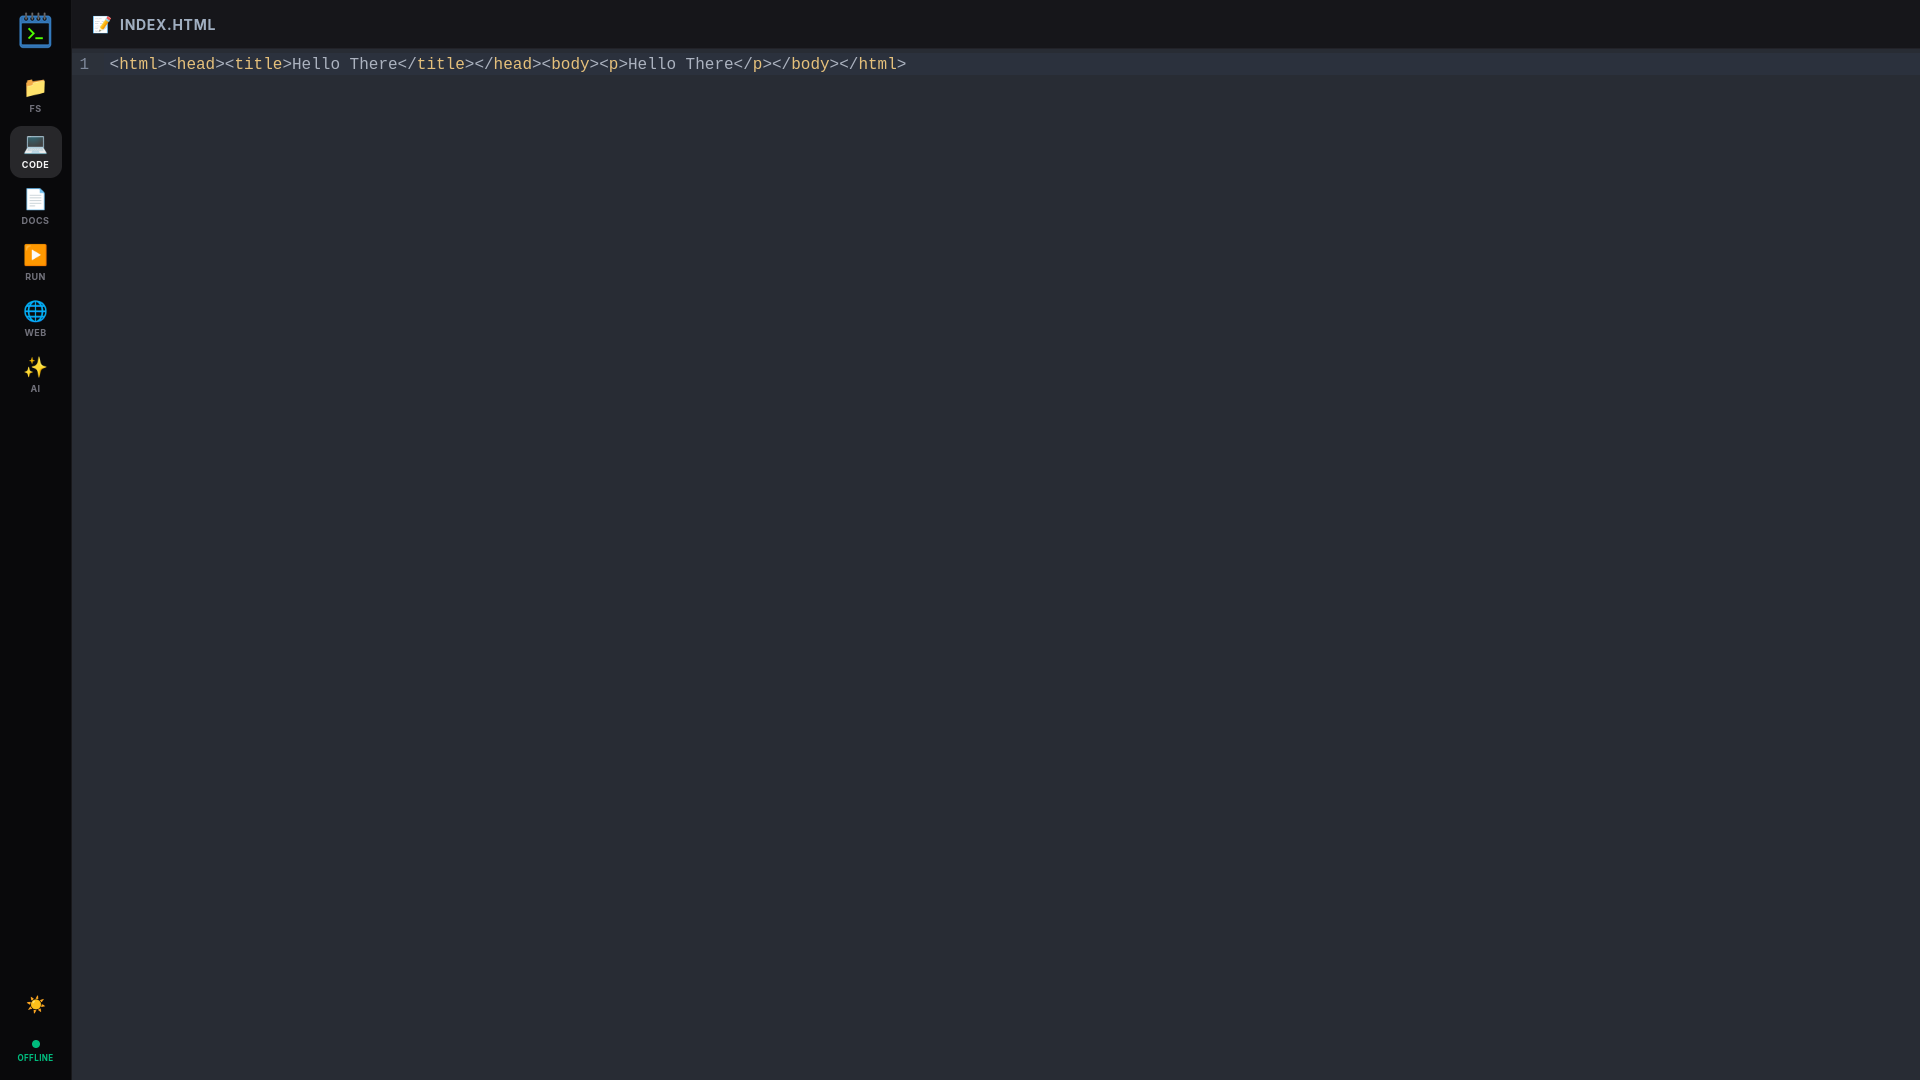
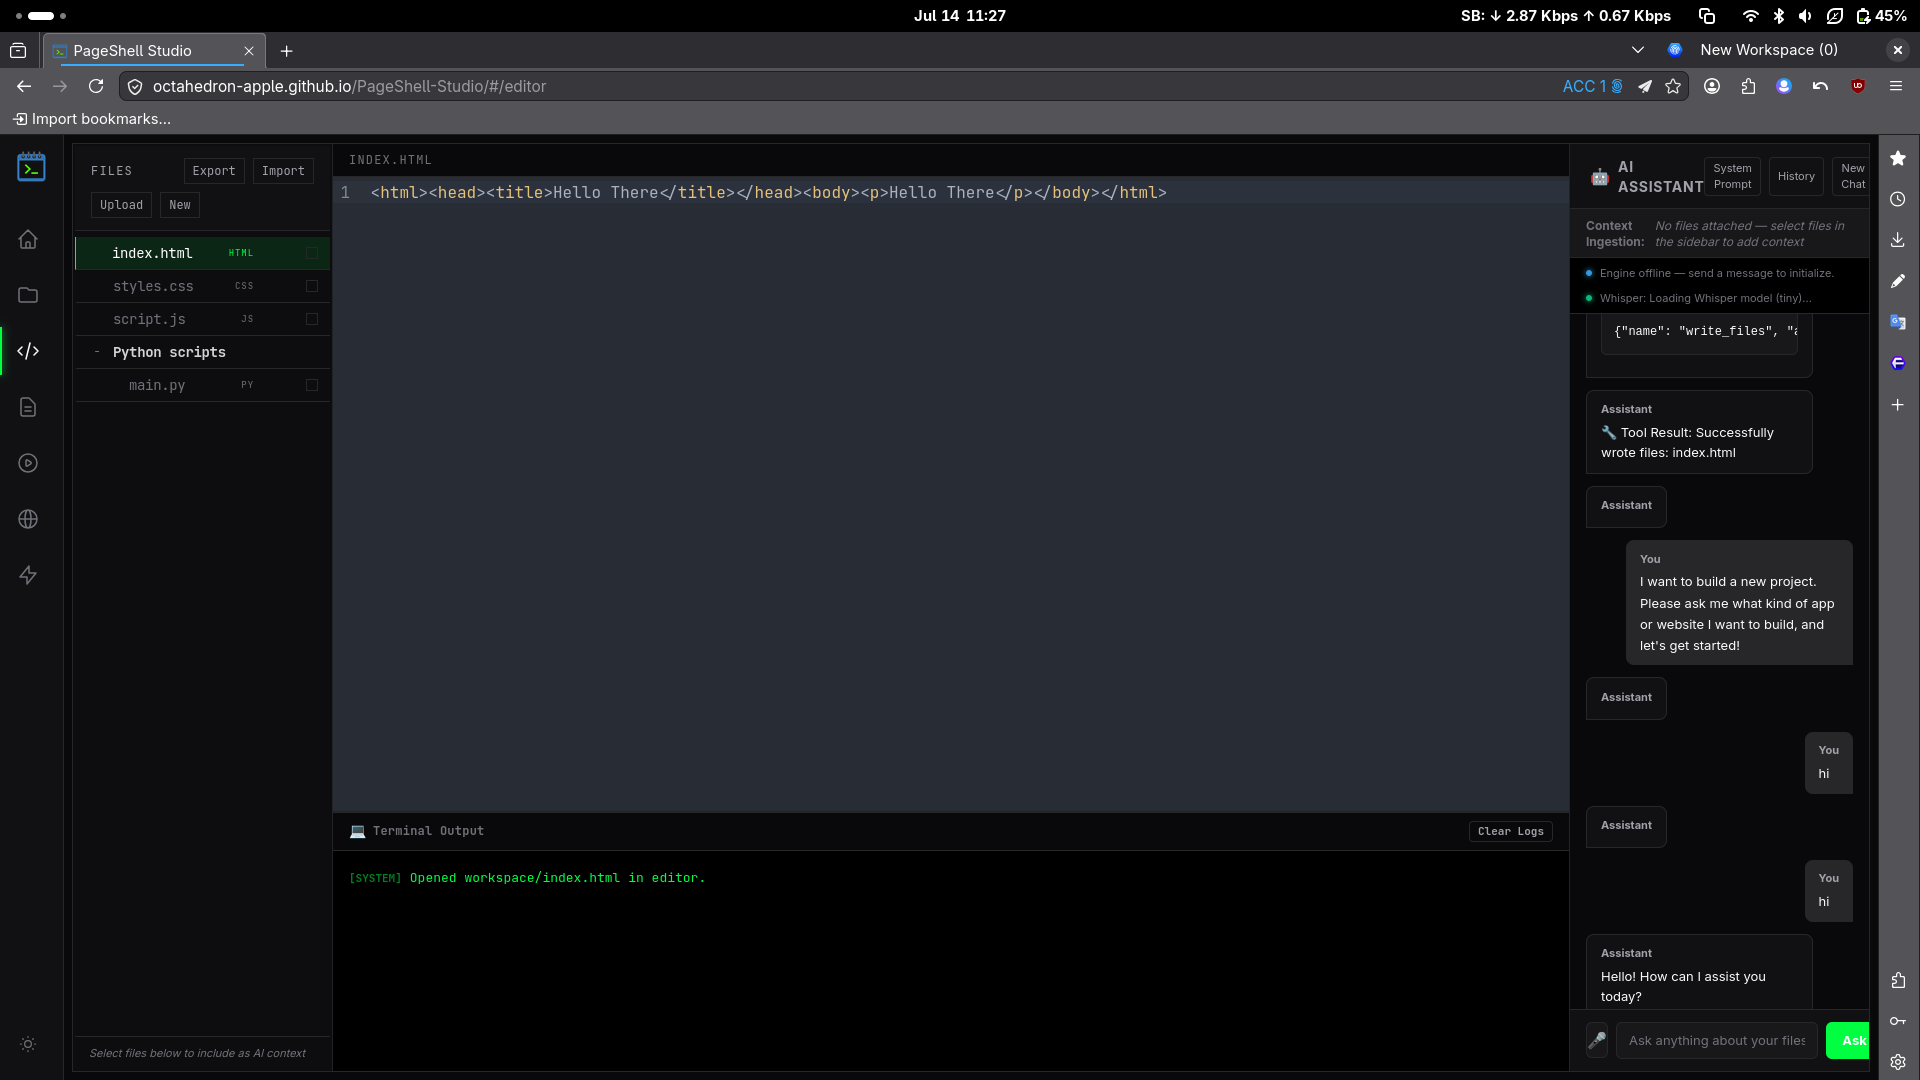
Added Sample files and Updated Screenshots

diff --git a/src/context/AppContext.jsx b/src/context/AppContext.jsx
@@ -162,6 +162,8 @@ export function AppProvider({ children }) {
       await fileSystemAPI.readFile('workspace/index.html');
     } catch {
       const encoder = new TextEncoder();
+      
+      // Basic Web Project
       await fileSystemAPI.writeFile('workspace/index.html', encoder.encode(`<!DOCTYPE html>
 <html lang="en">
 <head>
@@ -207,30 +209,23 @@ button {
       await fileSystemAPI.writeFile('workspace/script.js', encoder.encode(`document.getElementById('clickMe').addEventListener('click', () => {
     alert('Hello from PageShell Studio!');
 });`));
-      await fileSystemAPI.writeFile('workspace/Python scripts/main.py', encoder.encode(`import pandas as pd
-import numpy as np
 
-print("--- Initializing Python Analysis ---")
+      // Fetch and seed samples
+      try {
+        const baseUrl = import.meta.env.BASE_URL;
+        const [pyRes, xlsxRes, docxRes] = await Promise.all([
+          fetch(`${baseUrl}samples/sample_code.py`),
+          fetch(`${baseUrl}samples/financial_data.xlsx`),
+          fetch(`${baseUrl}samples/company_policy.docx`)
+        ]);
 
-try:
-    df = pd.read_excel("data.xlsx")
-    print("🚀 Natively loaded 'data.xlsx' from OPFS workspace!")
-    print("\\nSummary Statistics:")
-    print(df.describe())
-    print("\\nFirst 5 rows:")
-    print(df.head())
-except Exception as e:
-    print("⚠️ 'data.xlsx' not found. Creating a template data.xlsx for you...")
-    df = pd.DataFrame({
-        "Employee": ["Alice Smith", "Bob Jones", "Charlie Brown", "Diana Prince", "Evan Wright"],
-        "Department": ["Engineering", "Product", "Engineering", "Design", "Product"],
-        "Salary": [85000, 92000, 78000, 88000, 95000],
-        "Performance_Score": [4.8, 4.2, 4.5, 4.9, 4.0]
-    })
-    df.to_excel("data.xlsx", index=False)
-    print("💾 Successfully saved template data.xlsx to OPFS workspace!")
-    print("Re-run the script to perform automated excel sheet reading!")
-`));
+        if (pyRes.ok) await fileSystemAPI.writeFile('workspace/sample_code.py', new Uint8Array(await pyRes.arrayBuffer()));
+        if (xlsxRes.ok) await fileSystemAPI.writeFile('workspace/financial_data.xlsx', new Uint8Array(await xlsxRes.arrayBuffer()));
+        if (docxRes.ok) await fileSystemAPI.writeFile('workspace/company_policy.docx', new Uint8Array(await docxRes.arrayBuffer()));
+      } catch (err) {
+        console.error('Failed to seed sample files:', err);
+      }
+
       await refreshFiles();
     }
   };

diff --git a/src/pages/HomePage.jsx b/src/pages/HomePage.jsx
@@ -47,16 +47,16 @@ export default function HomePage() {
 
   return (
     <div 
-      className="flex flex-col items-center justify-center w-full h-full bg-[var(--bg-app)] text-[var(--text-primary)] p-8 box-border"
+      className="flex flex-col items-center w-full min-h-full overflow-y-auto bg-[var(--bg-app)] text-[var(--text-primary)] p-8 py-12 box-border"
       onDragOver={handleDragOver}
       onDrop={handleDrop}
     >
-      <div className="flex flex-col items-center justify-center max-w-4xl w-full">
-        <img src={`${import.meta.env.BASE_URL}assets/logo2.png`} alt="Studio Logo" className="w-[140px] h-[140px] mb-6 object-contain animate-[spin_4s_linear_infinite]" />
+      <div className="flex flex-col items-center max-w-4xl w-full">
+        <img src={`${import.meta.env.BASE_URL}assets/logo2.png`} alt="Studio Logo" className="w-[180px] h-[180px] mb-6 object-contain animate-[spin_4s_linear_infinite]" />
         <h1 className="text-5xl font-extrabold text-transparent bg-clip-text bg-gradient-to-r from-blue-400 via-emerald-400 to-purple-500 mb-6 text-center tracking-tight">
           PageShell Studio
         </h1>
-        <p className="text-[var(--text-muted)] text-xl mb-16 text-center max-w-2xl leading-relaxed">
+        <p className="text-[var(--text-muted)] text-xl mb-12 text-center max-w-2xl leading-relaxed">
           A fully local AI workspace. Your models, your files, your data — nothing leaves this device.
         </p>
 

diff --git a/index.html b/index.html
@@ -8,7 +8,7 @@
     <link rel="preconnect" href="https://fonts.googleapis.com">
     <link rel="preconnect" href="https://fonts.gstatic.com" crossorigin>
     <link href="https://fonts.googleapis.com/css2?family=Inter:wght@300;400;500;600;700&family=JetBrains+Mono:wght@400;500;700&display=swap" rel="stylesheet">
-    <script src="%BASE_URL%coi-serviceworker.js"></script>
+    <script src="%BASE_URL%coi-serviceworker.js" defer></script>
   </head>
   <body>
     <div id="root"></div>

diff --git a/public/samples/sample_code.py b/public/samples/sample_code.py
@@ -1,0 +1,50 @@
+"""
+PageShell Studio — Sample Code Runner Demo
+===========================================
+This script demonstrates data analysis capabilities using the
+built-in Python (Pyodide) sandbox. No internet required.
+
+Run it via: Code tab > open sample_code.py > click Run
+"""
+
+import statistics
+
+# ─── Sales data ─────────────────────────────────────────────────────────────
+sales_data = {
+    "Q1": [12400, 15300, 11800, 17600, 14200, 13500],
+    "Q2": [18200, 21000, 19500, 22400, 20100, 23700],
+    "Q3": [16800, 14900, 17300, 18500, 15600, 16200],
+    "Q4": [25600, 28300, 27100, 29800, 31200, 30400],
+}
+
+print("=" * 50)
+print("  PageShell Studio — Quarterly Sales Analysis")
+print("=" * 50)
+
+annual_total = 0
+
+for quarter, values in sales_data.items():
+    total     = sum(values)
+    average   = statistics.mean(values)
+    median    = statistics.median(values)
+    std_dev   = statistics.stdev(values)
+    annual_total += total
+
+    print(f"\n📊 {quarter} Summary")
+    print(f"   Total Revenue : ${total:,}")
+    print(f"   Monthly Avg   : ${average:,.0f}")
+    print(f"   Median        : ${median:,.0f}")
+    print(f"   Std Deviation : ${std_dev:,.0f}")
+
+print("\n" + "=" * 50)
+print(f"  Annual Revenue Total: ${annual_total:,}")
+print("=" * 50)
+
+# ─── Growth rate ────────────────────────────────────────────────────────────
+quarterly_totals = [sum(v) for v in sales_data.values()]
+for i in range(1, len(quarterly_totals)):
+    growth = ((quarterly_totals[i] - quarterly_totals[i - 1]) / quarterly_totals[i - 1]) * 100
+    q = list(sales_data.keys())[i]
+    print(f"  {q} Growth vs Previous: {growth:+.1f}%")
+
+print("\n✅ Analysis complete. Try asking the AI: 'Summarise this script output.'")

diff --git a/README.md b/README.md
@@ -21,14 +21,20 @@ PageShell Studio solves this by moving the entire development lifecycle directly
 - **Premium UI/UX**: Features a modern, sleek interface with a dynamic Light/Dark mode toggle driven by custom CSS variables.
 
 ## Screenshots
-### File Manager
-![PageShell Studio File Manager](docs/assets/pageshell-file-manager.png)
+### Home Dashboard
+![PageShell Studio Home](docs/assets/pageshell-home.png)
 
 ### Code Editor
 ![PageShell Studio Code Editor](docs/assets/pageshell-code-editor.png)
 
+### Smart Sort
+![PageShell Studio Smart Sort](docs/assets/pageshell-smart-sort.png)
+
 ### Local AI Assistant
 ![PageShell Studio AI Assistant](docs/assets/pageshell-ai-assistant.png)
+
+### Live Web Preview
+![PageShell Studio Web Preview](docs/assets/pageshell-web-preview.png)
 
 ## On Device AI Explanation
 Our platform pushes the boundaries of edge computing by running all AI models locally on the user's device via **WebAssembly** and **WebGPU**:
@@ -77,6 +83,12 @@ Read the full architecture and sandboxing overview here: [ARCHITECTURE.md](./ARC
 3. Open the **Code Editor** to write your scripts, or the **Documents Viewer** to read PDFs and DOCX files.
 4. Select files using the checkboxes in the File Manager to attach them as context for the **AI Assistant**.
 5. Switch to the **Run** tab to execute Python/JavaScript code natively in the browser.
+
+### 🧪 Quick Testing with Sample Files
+To reduce friction and allow you to test our offline Data Analysis and RAG capabilities instantly, PageShell Studio automatically pre-loads **three sample files** into your workspace on first boot:
+- **`sample_code.py`**: Open this in the Code tab and hit Run to test our offline Python/Pyodide execution environment.
+- **`financial_data.xlsx`**: A sample spreadsheet. Check its box in the File Manager, open the AI Assistant, and ask questions like *"What was the Net Profit for Q4?"* to test our local spreadsheet parsing and context injection.
+- **`company_policy.docx`**: A sample corporate document. Open it in the Documents Viewer or ask the AI *"What is the remote work policy?"* to test our local text extraction, WASM vector embeddings, and Semantic Search RAG pipeline powered by Cosine Similarity.
 
 ## Known Limitations or Future Scope
 